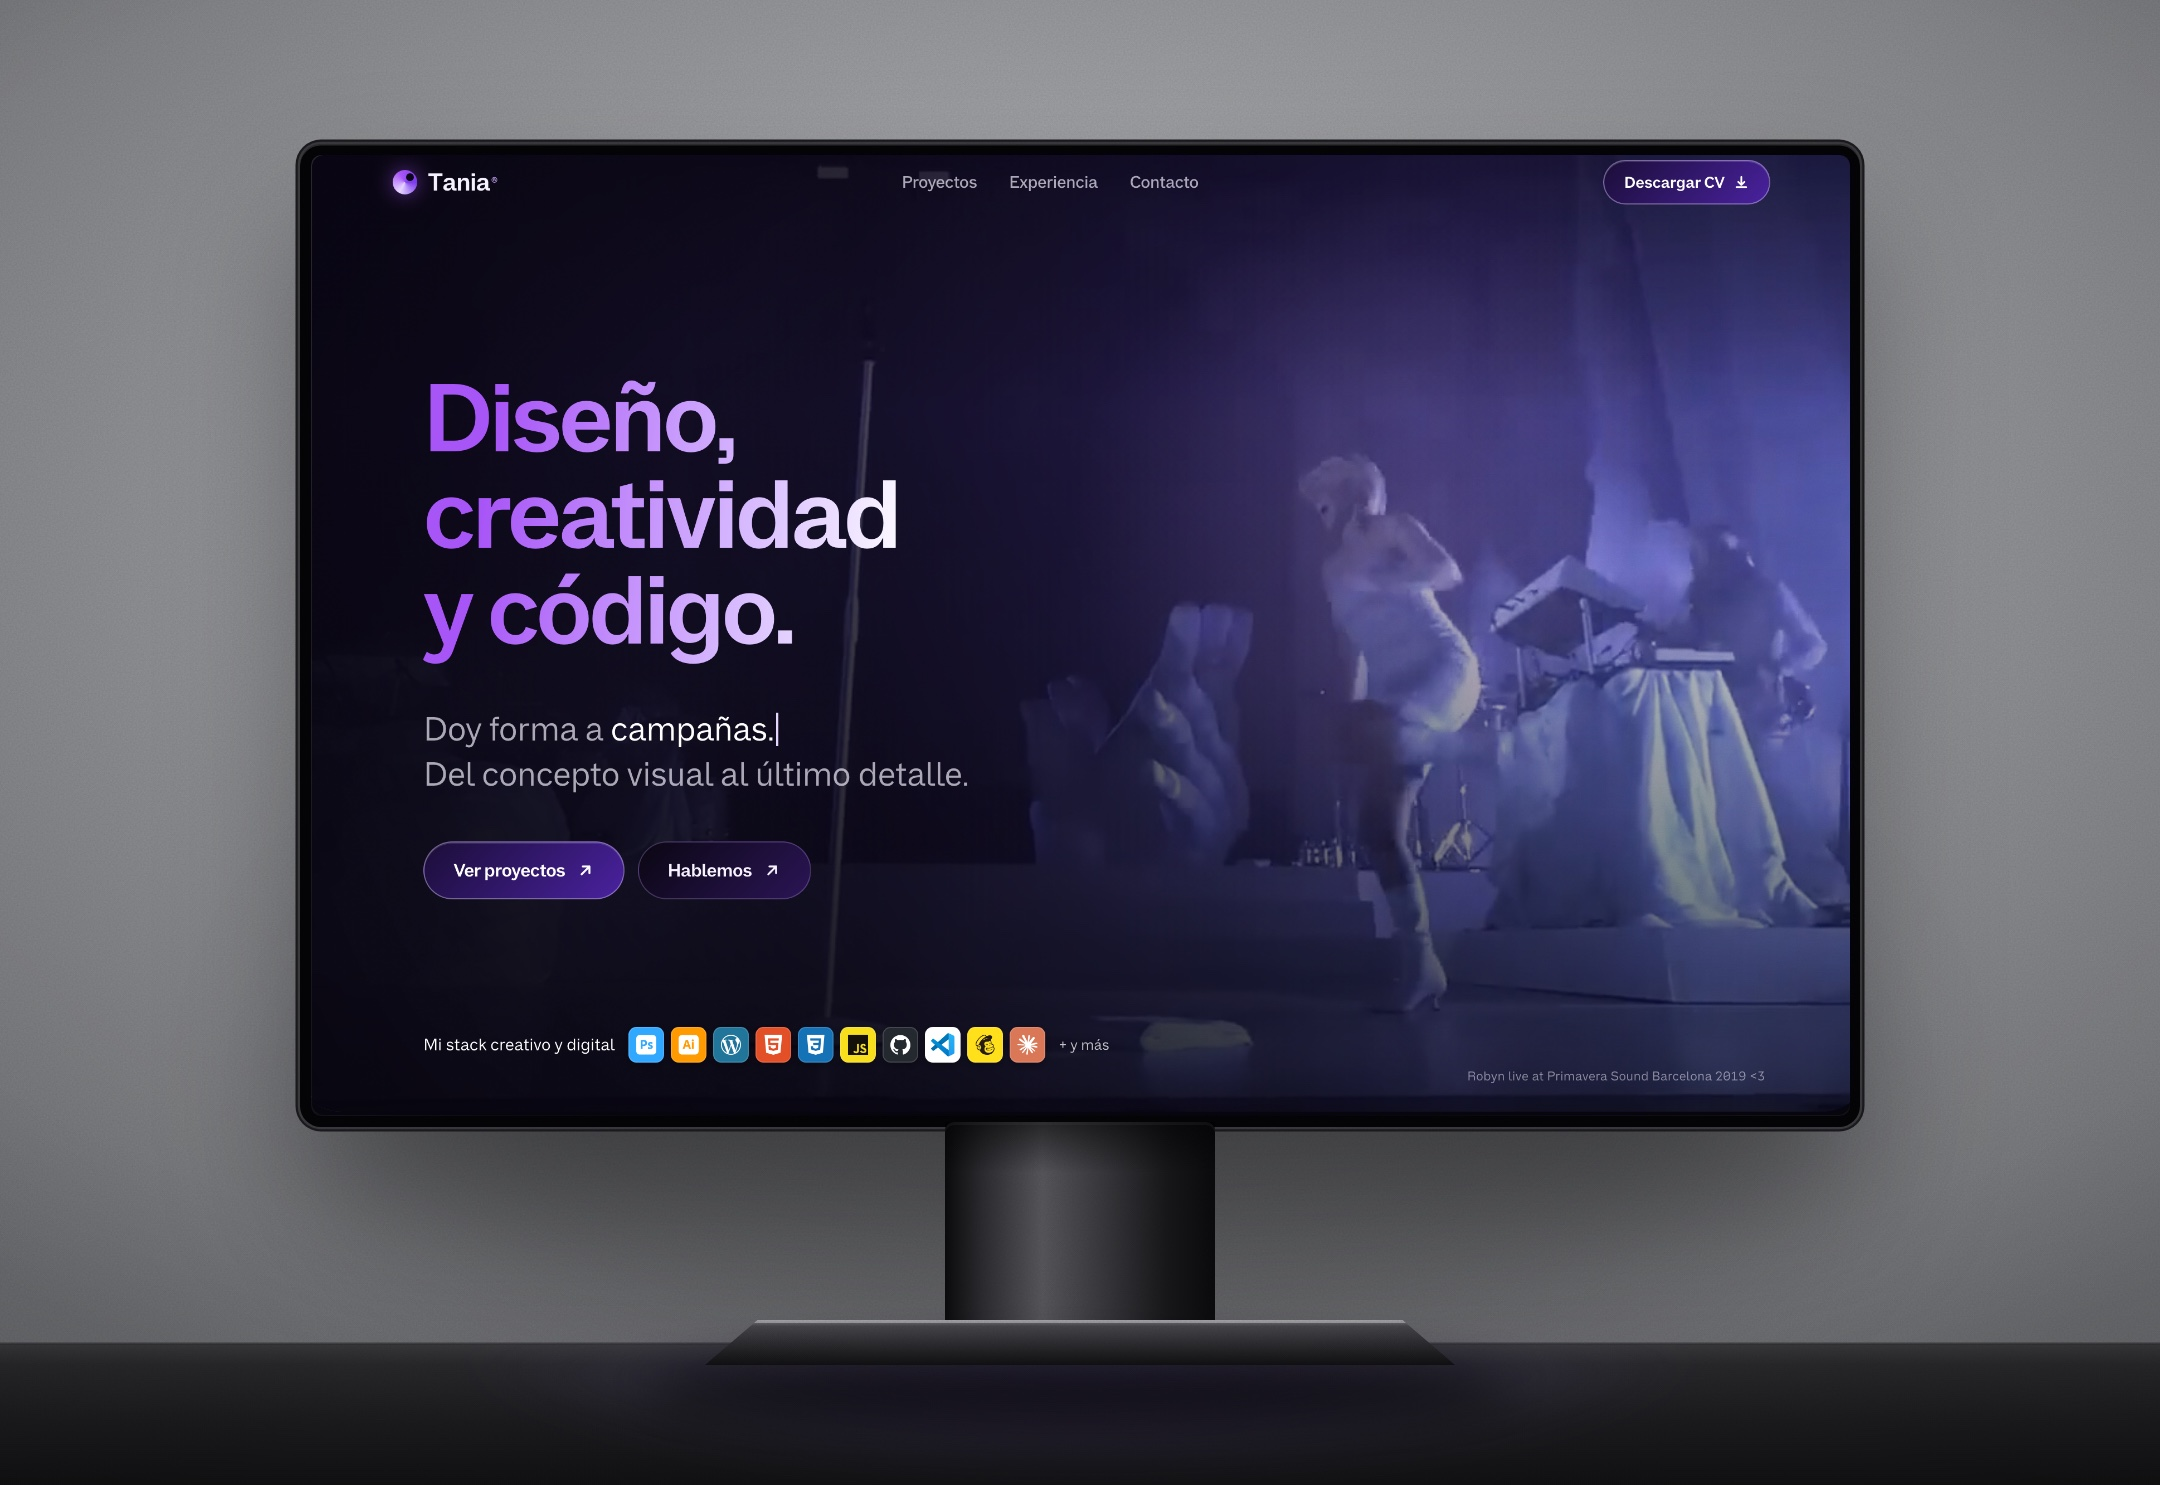
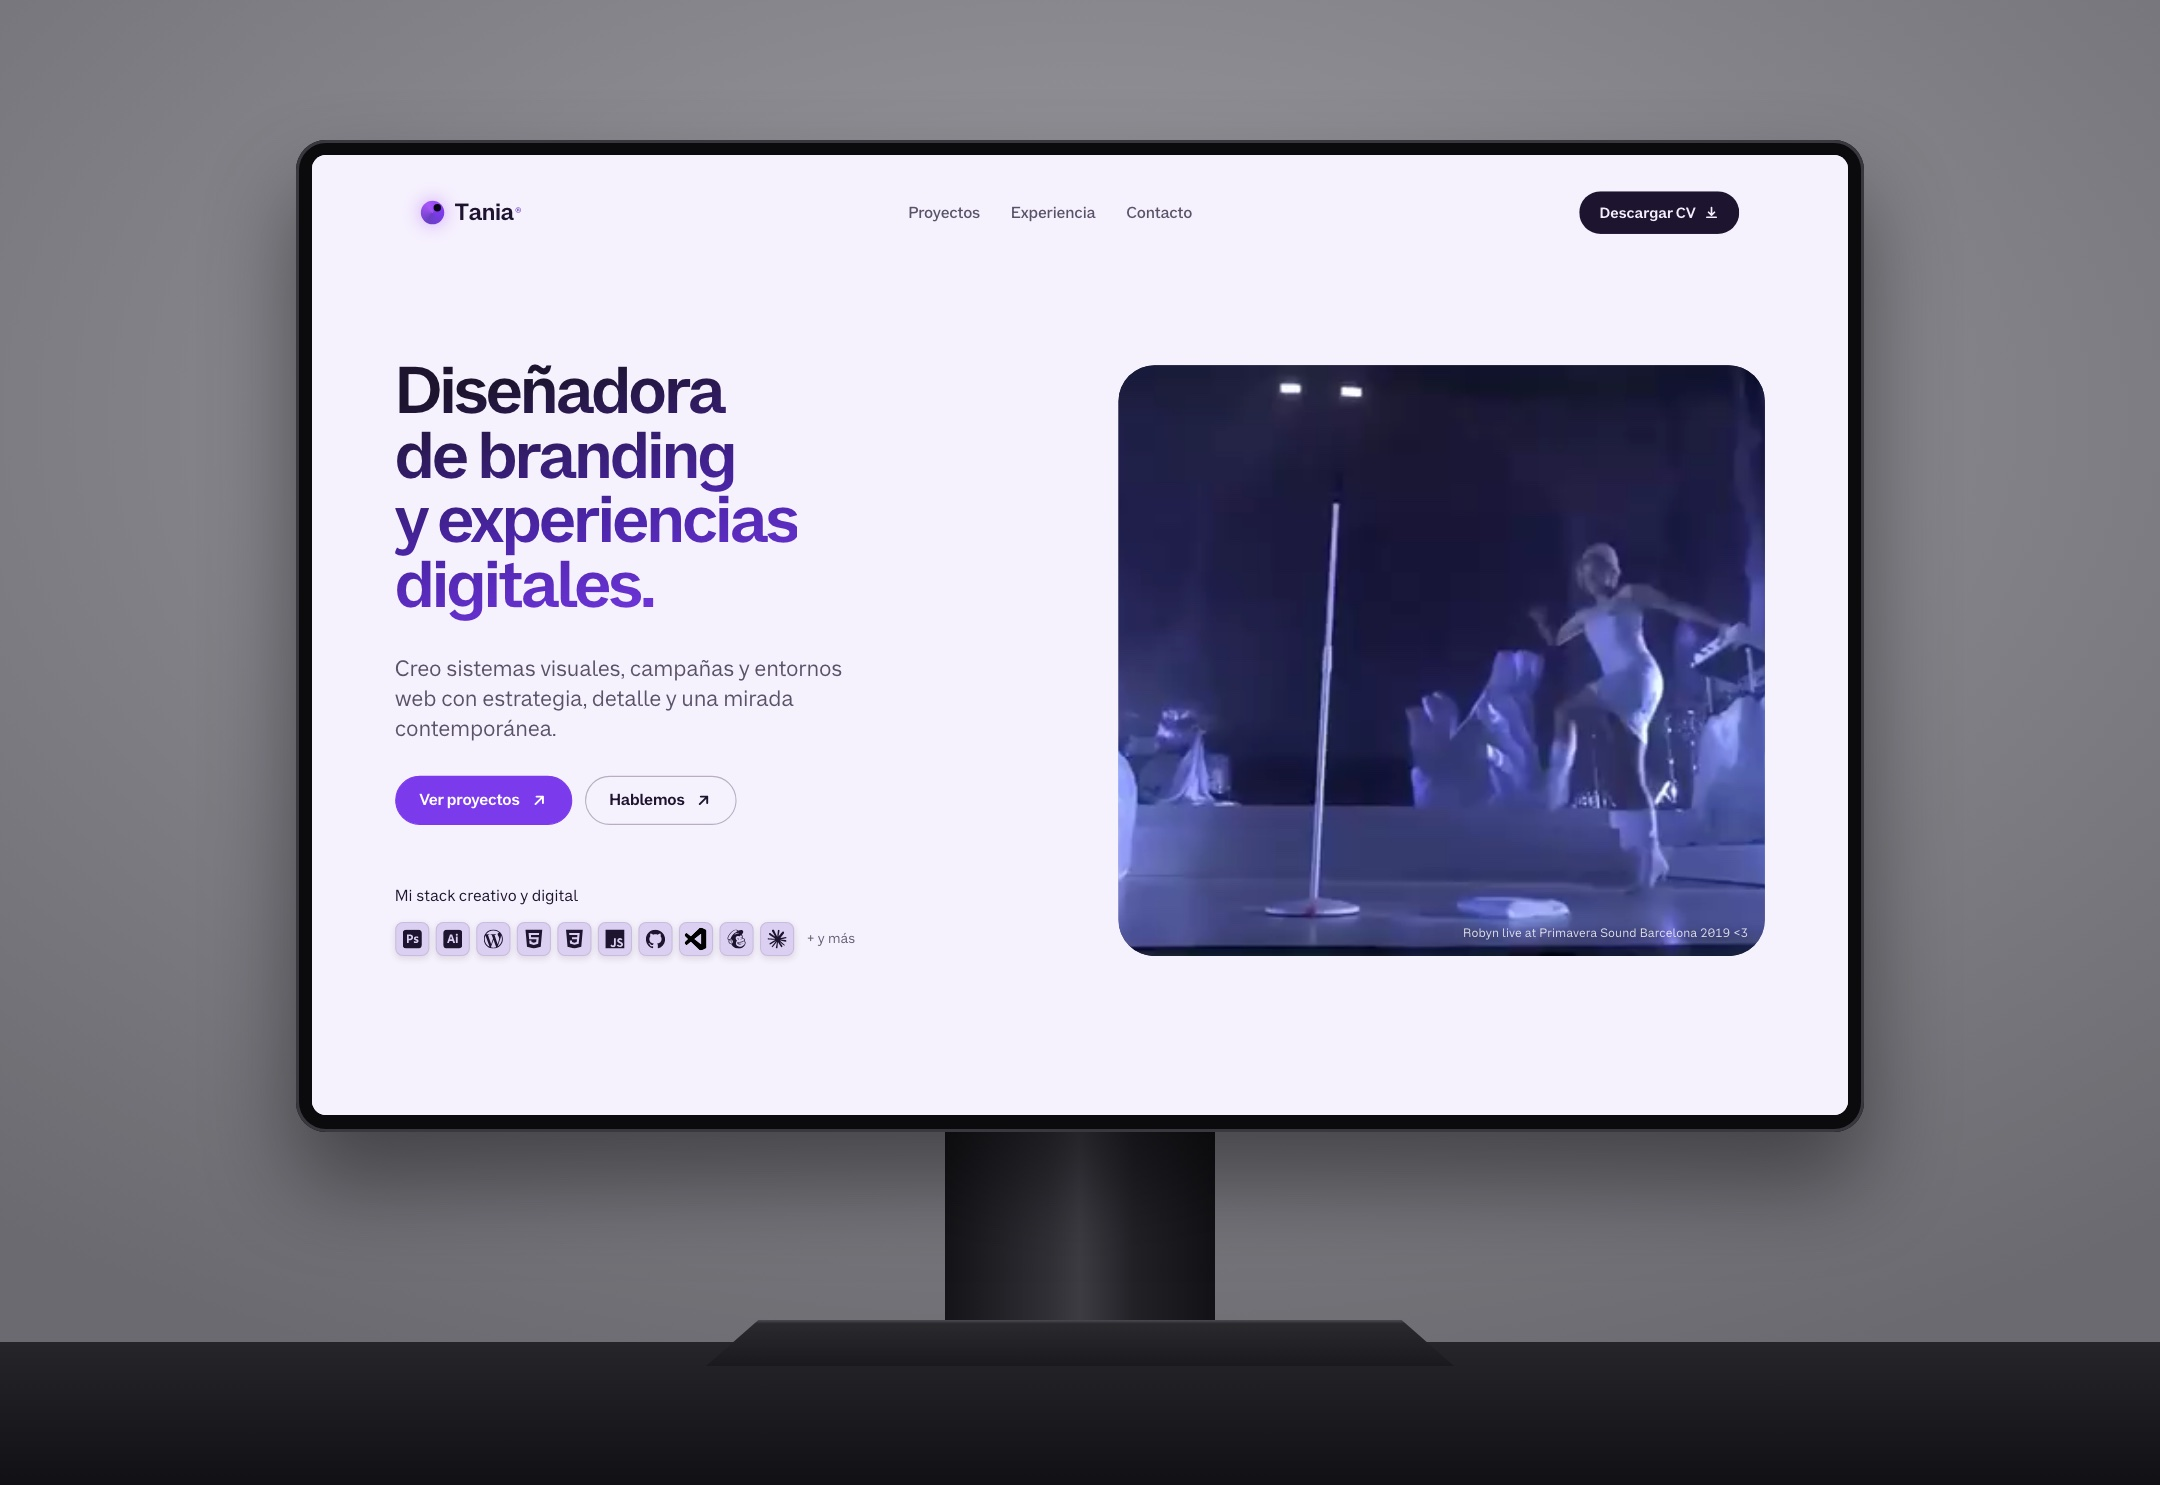
Home: hero compacto y centrado, solo dos proyectos destacados (Open House Madrid y LIV Golf), contraste de Formación y textos secundarios, menos hueco en Experiencia y mockup nuevo del Portafolio

diff --git a/css/v2-lila.css b/css/v2-lila.css
@@ -8,7 +8,7 @@ html[data-t="lila"] {
   --v2-bg-2: #eee8f9;
   --v2-ink: #1d1530;                    /* carbón con matiz violeta profundo */
   --v2-ink-2: rgb(29 21 48 / 72%);
-  --v2-ink-3: rgb(29 21 48 / 56%);
+  --v2-ink-3: rgb(29 21 48 / 68%);
   --v2-line: rgb(29 21 48 / 14%);
   --v2-lilac: #6a3fc4;                  /* violeta apagado para texto y detalles (con contraste sobre lila claro) */
   --v2-lilac-2: #6a3fc4;
@@ -30,14 +30,14 @@ html[data-t="lila"] .v2-menu { background: rgb(246 242 253 / 97%); }
 html[data-t="lila"] .v2-menu a:hover { color: var(--v2-lilac); }
 
 /* hero: fondo lila, titular a la izquierda y vídeo en un rectángulo a la derecha */
-html[data-t="lila"] .v2-hero-card { --vr: clamp(24px, 4vw, 64px); --vw: min(39%, 530px); --vt: 112px; --vb: 96px; background: transparent; }
+html[data-t="lila"] .v2-hero-card { --vr: clamp(24px, 4vw, 64px); --vw: min(35%, 480px); --vt: 112px; --vb: 96px; background: transparent; }
 html[data-t="lila"] .v2-hero-bg, html[data-t="lila"] .v2-hero-glow, html[data-t="lila"] .v2-hero-card::after { display: none; }
 html[data-t="lila"] .v2-hero-photo { z-index: 0; inset: auto; right: var(--vr); top: var(--vt); bottom: var(--vb); width: var(--vw); border-radius: clamp(22px, 2.4vw, 34px); background-color: #e0d6f4; }
 html[data-t="lila"] .v2-hero-photo video { border-radius: inherit; }
 html[data-t="lila"] .v2-hero-photo::after { display: none; }
 html[data-t="lila"] .v2-hero-credit { right: calc(var(--vr) + 16px); bottom: calc(var(--vb) + 14px); text-align: right; color: rgb(255 255 255 / 82%); text-shadow: 0 1px 8px rgb(0 0 0 / 45%); }   /* el crédito va dentro del vídeo, en su esquina */
-html[data-t="lila"] .v2-h1 { font-size: clamp(38px, 4.9vw, 72px); line-height: .98; letter-spacing: -0.04em; background: linear-gradient(168deg, #1d1530 14%, #4b25a8 58%, #7c3aed 100%); -webkit-background-clip: text; background-clip: text; -webkit-text-fill-color: transparent; color: transparent; padding-bottom: .06em; }
-html[data-t="lila"] .v2-lede { font-size: clamp(18px, 1.7vw, 24px); max-width: 21em; color: var(--v2-ink-2); }
+html[data-t="lila"] .v2-h1 { font-size: clamp(34px, 4.3vw, 62px); line-height: .98; letter-spacing: -0.04em; background: linear-gradient(168deg, #1d1530 14%, #4b25a8 58%, #7c3aed 100%); -webkit-background-clip: text; background-clip: text; -webkit-text-fill-color: transparent; color: transparent; padding-bottom: .06em; }
+html[data-t="lila"] .v2-lede { font-size: clamp(16px, 1.45vw, 21px); max-width: 21em; color: var(--v2-ink-2); }
 
 /* botones: violeta signature sólido en «Ver proyectos»; «Hablemos» transparente con borde fino */
 html[data-t="lila"] .v2-btn-primary { background: var(--v2-action); color: #fff; border: 1px solid var(--v2-action); box-shadow: none; }
@@ -106,7 +106,7 @@ html[data-t="lila"] .v2-wa:hover { background: var(--v2-action); color: #fff; }
   html[data-t="lila"] .v2-hero-grid { order: 1; padding-bottom: 36px; gap: 30px; }
   html[data-t="lila"] .v2-works { position: static; }
   html[data-t="lila"] .v2-hero-photo { order: 2; position: relative; right: auto; top: auto; bottom: auto; width: auto; height: clamp(260px, 62vw, 420px); margin: 0 22px 34px; }
-  html[data-t="lila"] .v2-h1 { font-size: clamp(34px, 10.2vw, 58px); }
+  html[data-t="lila"] .v2-h1 { font-size: clamp(32px, 9.4vw, 52px); }
   html[data-t="lila"] .v2-h1 > span { text-wrap: balance; }
   html[data-t="lila"] .v2-lede { font-size: clamp(17px, 4.6vw, 22px); max-width: 24em; }
 }
@@ -154,3 +154,40 @@ html[data-t="lila"][data-theme="dark"] .lv-legend .k1::before { background: #1d1
 html[data-t="lila"] .v2-404 .v2-404-num { background: linear-gradient(98deg, #7c3aed 10%, #4b25a8 55%, #1d1530 100%); -webkit-background-clip: text; background-clip: text; color: transparent; }
 html[data-t="lila"] .v2-404 h1 { color: var(--v2-ink); }
 html[data-t="lila"] .v2-404 .v2-404-eye { background: linear-gradient(135deg, #7c3aed 10%, #4b25a8 85%); }
+
+/* escritorio: el contenido del hero sube un poco (menos hueco arriba del titular) */
+@media (min-width: 901px) {
+  html[data-t="lila"] .v2-hero-grid { padding-top: 104px; padding-bottom: 180px; }
+}
+
+/* contraste: el encabezado «Formación» era casi invisible sobre el fondo claro */
+html[data-t="lila"] .v2-edu-h { color: var(--v2-ink); }
+
+/* proyectos destacados: solo dos (Open House Madrid y LIV Golf), a medias, para que las imágenes se vean más grandes */
+html[data-t="lila"] .v2-work--madrid, html[data-t="lila"] .v2-work--liv { grid-column: span 6; }
+html[data-t="lila"] .v2-work--madrid .v2-work-art, html[data-t="lila"] .v2-work--liv .v2-work-art { aspect-ratio: 4 / 3; }
+html[data-t="lila"] .v2-work--madrid .v2-work-title, html[data-t="lila"] .v2-work--liv .v2-work-title { font-size: clamp(24px, 2.3vw, 34px); }
+@media (max-width: 900px) { html[data-t="lila"] .v2-work--madrid, html[data-t="lila"] .v2-work--liv { grid-column: auto; } html[data-t="lila"] .v2-work--madrid .v2-work-art, html[data-t="lila"] .v2-work--liv .v2-work-art { aspect-ratio: 4 / 3; } }
+
+/* botones del hero algo más compactos (escritorio) */
+@media (min-width: 901px) {
+  html[data-t="lila"] .v2-hero .v2-btn { height: 46px; padding: 0 22px; font-size: 15px; }
+}
+
+/* ============================================================
+   Hero como una sola composición (escritorio): dos columnas dentro del mismo contenedor (1400 px máx.),
+   vídeo cerca del texto, stack justo debajo de los botones, todo centrado en la altura de la pantalla
+   ============================================================ */
+@media (min-width: 901px) {
+  html[data-t="lila"] .v2-hero-card { --hg-pad: clamp(24px, 4vw, 64px); --gl: calc(max(0px, (100% - 1400px) / 2) + var(--hg-pad)); --gw: calc(min(100%, 1400px) - 2 * var(--hg-pad)); min-height: calc(100svh - 24px); }
+  html[data-t="lila"] .v2-hero-grid { max-width: 1400px; padding-top: 132px; padding-bottom: 84px; align-content: center; row-gap: 56px; }   /* texto, stack y vídeo centrados en la pantalla (un poco más abajo para compensar el menú) */
+  html[data-t="lila"] .v2-lede { margin-top: 30px; }
+  html[data-t="lila"] .v2-actions { margin-top: 30px; }
+  html[data-t="lila"] .v2-works { position: static; flex-wrap: wrap; max-width: calc(var(--gw) / 2 - 36px); row-gap: 8px; }   /* nunca pasa por debajo del vídeo: si no cabe, «+ y más» baja a otra línea */
+  /* el vídeo ocupa la columna derecha: empieza a mitad del contenedor más media separación y termina en su borde derecho */
+  html[data-t="lila"] .v2-hero-photo { left: calc(var(--gl) + var(--gw) / 2 + 36px); right: var(--gl); width: auto; }
+  html[data-t="lila"] .v2-hero-credit { right: calc(var(--gl) + 16px); }
+}
+
+/* Experiencia: menos hueco entre el título y el primer trabajo */
+html[data-t="lila"] .v2-exp .v2-sec-title { margin-bottom: clamp(-20px, -1.2vw, -4px); }

diff --git a/index.html b/index.html
@@ -170,15 +170,6 @@
           </div>
           <span class="v2-work-arrow" aria-hidden="true"><svg viewBox="0 0 16 16" fill="none" stroke="currentColor" stroke-width="1.8" stroke-linecap="round" stroke-linejoin="round" aria-hidden="true"><path d="M4.5 11.5l7-7M5.5 4.5h6v6"/></svg></span>
         </a>
-        <a class="v2-work v2-work--web" href="calcula-lo-tuyo/" aria-label="Calcula lo tuyo: ver caso de estudio" data-reveal-block>
-          <div class="v2-work-art"><img class="v2-work-img" src="calcula-lo-tuyo/img/portada-v2.jpg" alt="Calcula lo tuyo: la calculadora de finiquito en un móvil, con las etiquetas «Basado en el BOE», «100% gratis» y «Sin registro»" width="2160" height="1485" loading="lazy" decoding="async" /></div>
-          <div class="v2-work-info">
-            <div class="v2-work-meta"><span class="v2-work-cat">Diseño web y desarrollo</span></div>
-            <h3 class="v2-work-title">Calcula lo tuyo</h3>
-            <div class="v2-work-more"><div><p>Calculadoras laborales y guías, diseñadas, desarrolladas y optimizadas desde cero.</p><span class="v2-work-cta">Ver caso de estudio <svg viewBox="0 0 16 16" fill="none" stroke="currentColor" stroke-width="1.8" stroke-linecap="round" stroke-linejoin="round" aria-hidden="true"><path d="M4.5 11.5l7-7M5.5 4.5h6v6"/></svg></span></div></div>
-          </div>
-          <span class="v2-work-arrow" aria-hidden="true"><svg viewBox="0 0 16 16" fill="none" stroke="currentColor" stroke-width="1.8" stroke-linecap="round" stroke-linejoin="round" aria-hidden="true"><path d="M4.5 11.5l7-7M5.5 4.5h6v6"/></svg></span>
-        </a>
         </div>
           
         </div>

diff --git a/js/projects-data.js b/js/projects-data.js
@@ -97,7 +97,7 @@ window.PROJECTS = [
     label: 'Diseño web y desarrollo',
     desc: 'Este portafolio, hecho a mano con HTML, CSS y JavaScript puro, sin plantillas: despliegue en GitHub Pages y proyectos por carpetas.',
     image: 'imgs/proyectos/portafolio-v2.jpg',
-    alt: 'Este portafolio en un monitor: la portada con «Diseño, creatividad y código.»',
+    alt: 'Este portafolio en un monitor: la portada con «Diseñadora de branding y experiencias digitales» y el vídeo de Robyn a la derecha',
     url: 'https://github.com/taniadeazevedo/taniadeazevedo.es',
     external: true,
     cta: 'Ver código'
